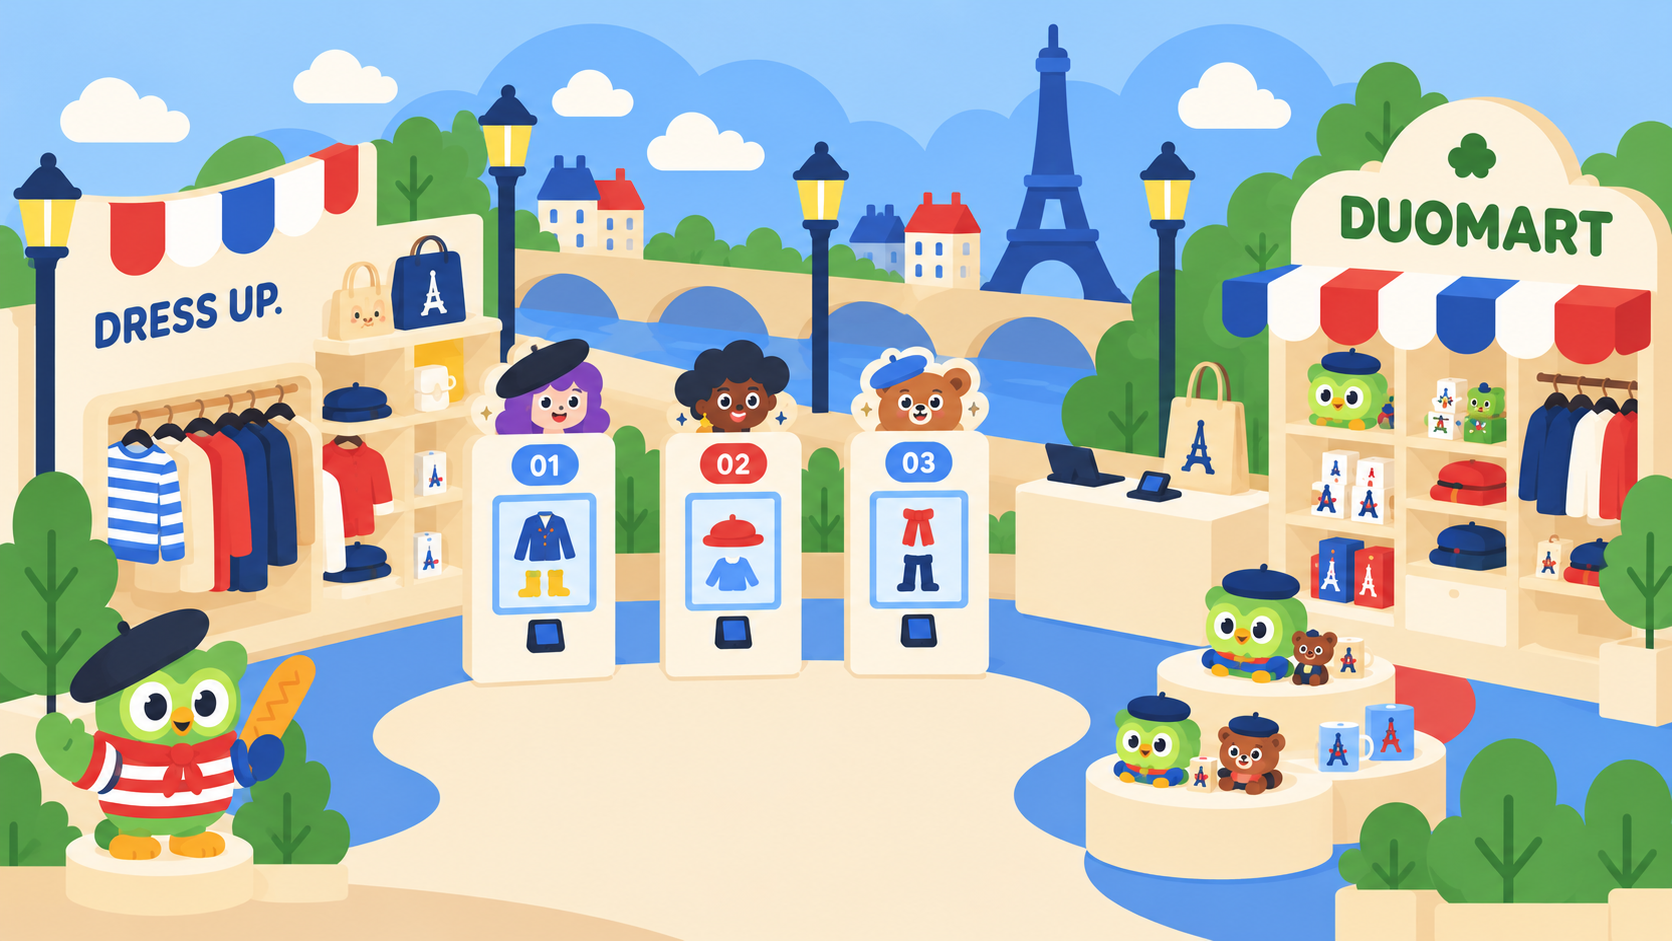
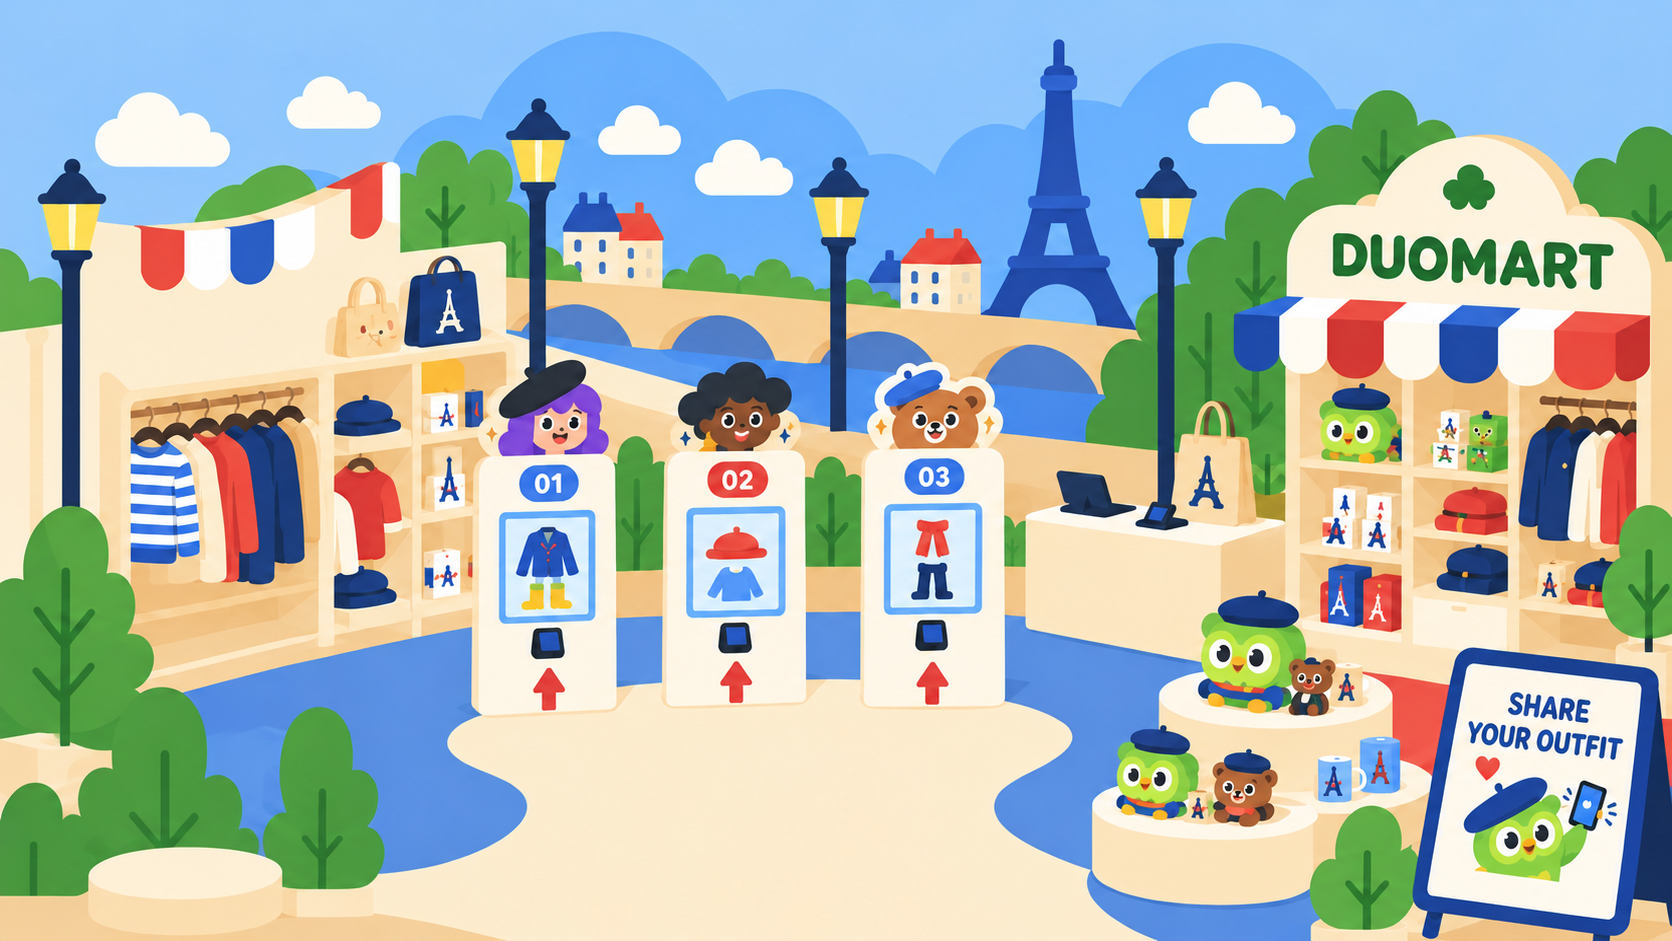
Refine framed Camille transformation and layered animated Paris scene

diff --git a/src/AdventureScene.jsx b/src/AdventureScene.jsx
@@ -1,29 +1,46 @@
 import { useId } from 'react'
 import { motion, useReducedMotion } from 'motion/react'
+import CamilleIdle from './CamilleIdle'
+import ForegroundDuo from './ForegroundDuo'
 import './AdventureScene.css'
 
-const regions = [
-  {name:'fashion-booth', points:'0,165 480,165 480,785 0,900',origin:'240px 800px',delay:.14},
-  {name:'kiosk-one', points:'480,355 680,355 680,765 480,765',origin:'580px 765px',delay:.3},
-  {name:'kiosk-two', points:'680,355 865,355 865,765 680,765',origin:'770px 765px',delay:.4},
-  {name:'kiosk-three', points:'865,355 1050,355 1050,765 865,765',origin:'950px 765px',delay:.5},
-  {name:'duomart', points:'1060,180 1600,180 1600,900 1050,765 1050,380',origin:'1320px 800px',delay:.25},
+// Painting order is independent of reveal timing: the ground can arrive last
+// while still sitting behind the kiosks, characters and displays.
+const layers = [
+  {name:'clouds',path:'M0 0H1600V900H0Z',delay:0,origin:'800px 180px'},
+  {name:'bridge',path:'M475 250 935 255 1090 300 1090 450 470 375Z M940 315 983 22 1018 22 1055 330Z',delay:.045,origin:'800px 370px'},
+  {name:'ground',path:'M0 595 460 580 620 615 965 595 1260 640 1600 655V900H0Z',delay:.65,origin:'800px 900px'},
+  {name:'left-cupboards',path:'M0 185 355 150 490 230 488 630 292 696 0 739Z',delay:.2,origin:'230px 690px'},
+  {name:'right-cupboards',path:'M1172 270 1215 151Q1415 73 1530 194L1595 260V681L1230 625Z',delay:.23,origin:'1400px 660px'},
+  {name:'cashier',path:'M975 445 1155 371 1233 450 1233 633 1110 675 975 597Z',delay:.28,origin:'1110px 655px'},
+  {name:'kiosk-one',path:'M448 409Q455 359 484 350L507 336Q583 350 592 409L608 431V688L447 688Z',delay:.33,origin:'529px 688px'},
+  {name:'kiosk-two',path:'M633 408Q625 369 650 350Q705 320 745 355L775 405V680L633 680Z',delay:.375,origin:'706px 680px'},
+  {name:'kiosk-three',path:'M820 403Q819 357 872 341Q933 333 951 400L964 422V678L820 678Z',delay:.42,origin:'895px 678px'},
+  {name:'lamp-left',path:'M32 199Q26 165 65 150Q91 155 100 192L92 240 82 246V580H55V246L44 241Z',delay:.09,origin:'68px 580px'},
+  {name:'lamp-middle-left',path:'M481 132Q475 109 512 91Q544 98 546 126L538 175 527 186V355H502V186L490 177Z',delay:.105,origin:'514px 355px'},
+  {name:'lamp-center',path:'M774 188Q768 159 802 150Q831 160 831 187L824 226 816 240V414H790V239L780 228Z',delay:.12,origin:'802px 414px'},
+  {name:'lamp-right',path:'M1087 187Q1080 161 1116 150Q1145 161 1144 188L1135 226 1128 239V487H1103V237L1094 230Z',delay:.135,origin:'1116px 487px'},
+  {name:'foreground-duo',path:'M37 620Q54 598 96 590L210 565Q257 596 246 664L309 631Q345 621 340 664L305 743 311 866 264 896 82 896 38 817Z',delay:.47,origin:'178px 870px'},
+  {name:'display-back',path:'M1099 639Q1110 575 1196 568Q1220 600 1270 633L1339 665 1329 752 1099 763Z',delay:.51,origin:'1220px 750px'},
+  {name:'display-front',path:'M1039 741Q1026 704 1055 685Q1136 689 1208 728L1328 701 1365 778 1340 868 1044 868Z',delay:.545,origin:'1200px 850px'},
+  {name:'share-sign',path:'M1385 620Q1390 605 1412 609L1578 625Q1595 630 1595 656L1595 900H1348L1329 848Z',delay:.58,origin:'1470px 890px'},
 ]
-export default function AdventureScene({ hideCharacter = false }) {
-  const reduced = useReducedMotion()
-  const id = useId().replaceAll(':','')
-  return <section className="adventure-scene" aria-label="Camille’s Paris fashion adventure">
-    <div className="adventure-stage">
-      <svg className="adventure-panorama" viewBox="0 0 1600 900" role="img" aria-label="Paris fashion pop-up with an Eiffel Tower, clothing booth, three learning kiosks and Duomart">
-        <defs>
-          <mask id={`${id}-scenery-mask`}><rect width="1600" height="900" fill="white"/>{regions.map(region=><polygon key={region.name} points={region.points} fill="black"/>)}</mask>
-          {regions.map(region=><clipPath key={region.name} id={`${id}-${region.name}`}><polygon points={region.points}/></clipPath>)}
-        </defs>
-        <motion.image href="/paris-adventure.png" width="1600" height="900" preserveAspectRatio="none" mask={`url(#${id}-scenery-mask)`} initial={{opacity:0}} animate={{opacity:1}} transition={{duration:reduced ? 0 : .35}}/>
-        {regions.map(region=><motion.g className="adventure-piece" data-part={region.name} key={region.name} style={{transformOrigin:region.origin}} initial={reduced ? false : {opacity:0,scale:.8,y:65}} animate={{opacity:1,scale:1,y:0}} transition={{delay:reduced ? 0 : region.delay,duration:reduced ? 0 : .6,type:'spring',bounce:.22}}><image href="/paris-adventure.png" width="1600" height="900" preserveAspectRatio="none" clipPath={`url(#${id}-${region.name})`}/></motion.g>)}
-        <motion.image href="/paris-adventure.png" width="1600" height="900" preserveAspectRatio="none" initial={{opacity:0}} animate={{opacity:1}} transition={{delay:reduced ? 0 : 1.1,duration:reduced ? 0 : .15}}/>
-      </svg>
-      <div className={`adventure-character ${hideCharacter ? 'character-in-flight' : ''}`}><div className="character-ground-shadow"/><motion.img src="/camille-cartoon.png" alt="Camille as a Duolingo-style character, wearing a white blouse and dark skirt" animate={reduced || hideCharacter ? {} : {y:[0,-3,0]}} transition={{duration:3.5,repeat:Infinity,ease:'easeInOut'}}/></div>
-    </div>
-  </section>
+const lamps=[{x:68,y:216},{x:514,y:154},{x:802,y:207},{x:1116,y:207}]
+
+export default function AdventureScene({hideCharacter=false}) {
+  const reduced=useReducedMotion()
+  const id=useId().replaceAll(':','')
+  return <section className="adventure-scene" aria-label="Camille’s Paris fashion adventure"><div className="adventure-stage">
+    <svg className="adventure-panorama" viewBox="0 0 1600 900" role="img" aria-label="Paris scene with clouds, bridge, lamps, fashion shelves, cashier, three kiosks, Duo displays and a share-your-outfit sign">
+      <defs>
+        {layers.map((layer,index)=><mask key={layer.name} id={`${id}-${layer.name}`} maskUnits="userSpaceOnUse" x="0" y="0" width="1600" height="900"><path d={layer.path} fill="white"/>{layers.slice(index+1).map(front=><path key={front.name} d={front.path} fill="black"/>)}</mask>)}
+        <radialGradient id={`${id}-lamp-light`}><stop offset="0" stopColor="#fff6b1" stopOpacity=".85"/><stop offset="1" stopColor="#fff6b1" stopOpacity="0"/></radialGradient>
+      </defs>
+      {layers.map(layer=><motion.g key={layer.name} className="adventure-piece" data-part={layer.name} data-delay={layer.delay} style={{transformOrigin:layer.origin}} initial={reduced?false:{opacity:0,y:layer.name==='ground'?24:35,scale:layer.name==='clouds'?.97:.92}} animate={{opacity:1,y:0,scale:1}} transition={{delay:reduced?0:layer.delay,duration:reduced?0:.3,type:'spring',bounce:.16}}><image href="/paris-adventure.png" width="1600" height="900" preserveAspectRatio="none" mask={`url(#${id}-${layer.name})`}/></motion.g>)}
+      <motion.g initial={{opacity:0}} animate={{opacity:1}} transition={{delay:reduced?0:1.02,duration:reduced?0:.1}}><image href="/paris-adventure.png" width="1600" height="900" preserveAspectRatio="none"/></motion.g>
+      <ForegroundDuo reduced={reduced}/>
+      {lamps.map((lamp,index)=><motion.ellipse key={index} className="lamp-glow" cx={lamp.x} cy={lamp.y} rx="39" ry="49" fill={`url(#${id}-lamp-light)`} initial={{opacity:0}} animate={reduced?{opacity:.24}:{opacity:[.18,.18,.5,.22,.4,.18]}} transition={reduced?{duration:0}:{delay:1.2+index*.17,duration:5.5+index*.3,repeat:Infinity,ease:'easeInOut'}}/>)}
+    </svg>
+    <div className={`adventure-character ${hideCharacter?'character-in-flight':''}`}><div className="character-ground-shadow"/><CamilleIdle active={!hideCharacter}/></div>
+  </div></section>
 }

diff --git a/src/CamilleTransformation.jsx b/src/CamilleTransformation.jsx
@@ -9,29 +9,44 @@ export default function CamilleTransformation({origin,onReveal,onComplete}) {
     let cancelled=false
     const controls=[]
     const move=async(target,values,options)=>{if(cancelled)return;const control=animate(target,values,options);controls.push(control);await control}
+    const phase=name=>{if(!cancelled)scope.current.dataset.phase=name}
     const run=async()=>{
+      // A single camera flash hides the photographic-to-cartoon swap.
       await Promise.all([
-        move('.transform-flash',{opacity:[0,.85,0],scale:[.5,1.15]},{duration:.38,ease:'easeOut'}),
-        move('.transform-photo',{opacity:0},{delay:.1,duration:.16}),
-        move('.transform-cartoon',{opacity:1},{delay:.14,duration:.16}),
+        move('.transform-flash',{opacity:[0,.88,0],scale:[.7,1.12]},{duration:.34,ease:'easeOut'}),
+        move('.transform-photo',{opacity:0},{delay:.1,duration:.12}),
+        move('.transform-face-neutral',{opacity:1},{delay:.12,duration:.12}),
       ])
       if(cancelled)return
-      scope.current.dataset.phase='jump'
-      await move('.camille-transform-actor',{y:-85,scale:1.2,rotate:5},{duration:.25,ease:'easeOut'})
+      phase('portrait')
+      await move('.transform-frame',{scale:[1,1.015,1]},{duration:.25,ease:'easeInOut'})
+      if(cancelled)return
+      phase('expression')
+      await Promise.all([
+        move('.transform-face-neutral',{opacity:0},{duration:.12}),
+        move('.transform-face-wink',{opacity:1},{duration:.12}),
+      ])
+      await move('.transform-frame',{rotate:[0,2,0]},{duration:.28,ease:'easeInOut'})
+      if(cancelled)return
+      phase('jump')
+      await Promise.all([
+        move('.transform-frame',{opacity:0},{duration:.12}),
+        move('.transform-fullbody',{opacity:1},{duration:.12}),
+        move('.camille-transform-actor',{y:-85,height:origin.height*1.2,scale:1.08,rotate:5},{duration:.25,ease:'easeOut'}),
+      ])
       if(cancelled)return
       callbacks.current.onReveal()
-      await move('.camille-transform-actor',{y:-110,rotate:0},{duration:.4,ease:'easeInOut'})
-      if(cancelled)return
+      await move('.camille-transform-actor',{y:-110,rotate:0},{duration:.38,ease:'easeInOut'})
       let destination=document.querySelector('.adventure-character')
-      while(!destination && !cancelled){await new Promise(requestAnimationFrame);destination=document.querySelector('.adventure-character')}
+      while(!destination&&!cancelled){await new Promise(requestAnimationFrame);destination=document.querySelector('.adventure-character')}
       if(cancelled)return
       const stage=destination.getBoundingClientRect()
-      scope.current.dataset.phase='land'
-      await move('.camille-transform-actor',{x:stage.left-origin.left,y:stage.top-origin.top,width:stage.width,height:stage.height,scale:1,rotate:0},{duration:.65,ease:[.32,0,.22,1]})
+      phase('land')
+      await move('.camille-transform-actor',{x:stage.left-origin.left,y:stage.top-origin.top,width:stage.width,height:stage.height,scale:1,rotate:0},{duration:.48,ease:[.32,0,.22,1]})
       if(!cancelled)callbacks.current.onComplete()
     }
     run()
     return()=>{cancelled=true;controls.forEach(control=>control.stop())}
   },[animate,origin,scope])
-  return <div ref={scope} className="camille-transform" data-phase="flash" aria-hidden="true"><div className="camille-transform-actor" style={{left:origin.left,top:origin.top,width:origin.width,height:origin.height}}><img className="transform-photo" src="/camille-portrait.png" alt=""/><img className="transform-cartoon" src="/camille-cartoon.png" alt=""/><div className="transform-flash"/></div></div>
+  return <div ref={scope} className="camille-transform" data-phase="flash" aria-hidden="true"><div className="camille-transform-actor" style={{left:origin.left,top:origin.top,width:origin.width,height:origin.height}}><div className="transform-frame"><img className="transform-photo" src="/camille-portrait.png" alt=""/><img className="transform-face-neutral" src="/camille-cartoon-portrait.png" alt=""/><img className="transform-face-wink" src="/camille-cartoon-portrait-wink.png" alt=""/><div className="transform-flash"/></div><img className="transform-fullbody" src="/camille-idle-wink.png" alt=""/></div></div>
 }

diff --git a/src/AdventureScene.css b/src/AdventureScene.css
@@ -1,1 +1,2 @@
 .profile-page.adventure-page{background:#a9d8ff}.adventure-page .masthead,.adventure-page footer{color:#285e9b}.adventure-page .wordmark{color:#47853d}.adventure-page .fullscreen-button,.adventure-page .back-button{color:#285e9b;border-color:#285e9b50}.adventure-page footer{border-color:#285e9b30}.adventure-page .replay-button,.adventure-page .page-number,.adventure-page .page-number span{color:#285e9b}.adventure-page .replay-button>span{border-color:#285e9b50}.adventure-scene{min-height:calc(100svh - 147px);display:flex;justify-content:center;align-items:center}.adventure-stage{position:relative;aspect-ratio:16/9;width:min(100%,calc((100svh - 170px)*16/9));isolation:isolate;border-radius:24px;box-shadow:0 10px 0 #5c95cd30;overflow:hidden}.adventure-panorama{display:block;width:100%;height:100%}.adventure-character{position:absolute;left:41%;bottom:6%;width:17%;height:49%;z-index:3}.adventure-character img{width:100%;height:100%;object-fit:contain;object-position:50% 100%;position:relative;filter:drop-shadow(0 2px 0 #39577915)}.character-ground-shadow{position:absolute;width:70%;height:4%;bottom:1%;left:15%;border-radius:50%;background:#355a8440;filter:blur(3px)}.character-in-flight{visibility:hidden}.camille-transform{position:fixed;inset:0;z-index:35;pointer-events:none;overflow:hidden}.camille-transform-actor{position:absolute;transform-origin:50% 75%;will-change:transform}.transform-photo,.transform-cartoon{position:absolute;inset:0;width:100%;height:100%;object-fit:contain}.transform-photo{object-fit:cover;border:10px solid white;border-radius:22px}.transform-flash{position:absolute;inset:-40%;background:radial-gradient(ellipse,rgba(255,255,255,.94) 0%,rgba(255,255,255,.4) 35%,transparent 65%);opacity:0;pointer-events:none}.transform-cartoon{opacity:0}.transformation-active .portrait-frame img{visibility:hidden}.transformation-active .portrait-frame .photo-caption{opacity:0}.profile-page.is-transitioning .profile-scene{cursor:wait}.spark-transform{position:absolute;width:22px;height:22px;background:white;clip-path:polygon(50% 0,60% 40%,100% 50%,60% 60%,50% 100%,40% 60%,0 50%,40% 40%);opacity:0}@media(max-width:750px){.adventure-stage{width:100%;border-radius:14px}.adventure-scene{min-height:calc(100svh - 145px)}.adventure-page .chapter-label{display:none}.adventure-page footer{margin-top:0}}
+.transform-frame{position:absolute;inset:0;border-radius:18px;overflow:hidden;background:#fff7e8}.transform-frame img{position:absolute;inset:0;width:100%;height:100%;object-fit:cover;border:0;border-radius:0}.transform-face-neutral,.transform-face-wink,.transform-fullbody{opacity:0}.transform-fullbody{position:absolute;inset:0;width:100%;height:100%;object-fit:contain}.transformation-active .portrait-frame .photo-caption{opacity:1}.camille-idle{position:absolute;inset:0;transform-origin:50% 100%}.camille-idle img{position:absolute;inset:0;width:100%;height:100%;object-fit:contain;object-position:50% 100%}.lamp-glow{mix-blend-mode:screen;pointer-events:none}.left-duo-wave{transform-box:view-box;transform-origin:118px 725px}.adventure-piece{will-change:transform,opacity}

diff --git a/src/CamilleIdle.jsx b/src/CamilleIdle.jsx
@@ -1,0 +1,22 @@
+import { useEffect, useState } from 'react'
+import { motion, useReducedMotion } from 'motion/react'
+
+const poses = [
+  {name:'neutral',src:'/camille-cartoon.png'},
+  {name:'wink',src:'/camille-idle-wink.png'},
+  {name:'relaxed',src:'/camille-idle-relaxed.png'},
+]
+const routine = [{pose:1,duration:850},{pose:0,duration:3100},{pose:2,duration:2600},{pose:0,duration:1900}]
+export default function CamilleIdle({active=true}) {
+  const reduced=useReducedMotion()
+  const [pose,setPose]=useState(reduced?0:1)
+  useEffect(()=>{
+    if(!active || reduced)return
+    let timer
+    let step=0
+    const next=()=>{setPose(routine[step].pose);timer=setTimeout(()=>{step=(step+1)%routine.length;next()},routine[step].duration)}
+    next()
+    return()=>clearTimeout(timer)
+  },[active,reduced])
+  return <motion.div className="camille-idle" data-pose={poses[pose].name} role="img" aria-label="Camille smiles, waves and changes expression like an idle game character" animate={active&&!reduced ? {y:[0,-2,0],rotate:[-.4,.4,-.4]} : {y:0,rotate:0}} transition={{duration:3.5,repeat:Infinity,ease:'easeInOut'}}>{poses.map((item,index)=><img key={item.name} src={item.src} alt="" aria-hidden="true" style={{display:pose===index ? 'block' : 'none'}}/>)}</motion.div>
+}

diff --git a/src/ForegroundDuo.jsx b/src/ForegroundDuo.jsx
@@ -1,0 +1,11 @@
+import { useId } from 'react'
+import { motion } from 'motion/react'
+
+export default function ForegroundDuo({reduced}) {
+  const id=useId().replaceAll(':','')
+  return <motion.svg className="foreground-duo-rig" x="30" y="570" width="325" height="280" viewBox="180 100 860 850" overflow="visible" initial={reduced?false:{opacity:0,y:25,scale:.92}} animate={{opacity:1,y:0,scale:1}} style={{transformOrigin:'180px 855px'}} transition={{delay:reduced?0:.47,duration:reduced?0:.3}}>
+    <defs><clipPath id={`${id}-body`}><rect x="300" y="0" width="724" height="1024"/></clipPath><clipPath id={`${id}-arm`}><rect x="0" y="390" width="280" height="345"/></clipPath></defs>
+    <motion.g className="left-duo-wave" style={{transformOrigin:'384px 688px'}} animate={reduced?{rotate:0}:{rotate:[0,0,12,-5,12,0,0]}} transition={{delay:1.1,duration:4.6,repeat:reduced?0:Infinity,times:[0,.45,.55,.65,.75,.83,1],ease:'easeInOut'}}><g transform="translate(128 5)"><image href="/foreground-duo-rig.png" width="1024" height="1024" clipPath={`url(#${id}-arm)`}/></g></motion.g>
+    <image href="/foreground-duo-rig.png" width="1024" height="1024" clipPath={`url(#${id}-body)`}/>
+  </motion.svg>
+}

diff --git a/index.html b/index.html
@@ -6,6 +6,11 @@
     <link rel="preload" as="image" href="/french-duo-side.png" />
     <link rel="preload" as="image" href="/camille-cartoon.png" />
     <link rel="preload" as="image" href="/paris-adventure.png" />
+    <link rel="preload" as="image" href="/camille-cartoon-portrait.png" />
+    <link rel="preload" as="image" href="/camille-cartoon-portrait-wink.png" />
+    <link rel="preload" as="image" href="/camille-idle-wink.png" />
+    <link rel="preload" as="image" href="/camille-idle-relaxed.png" />
+    <link rel="preload" as="image" href="/foreground-duo-rig.png" />
     <meta name="viewport" content="width=device-width, initial-scale=1.0" />
     <title>Meet Camille — A Duolingo Story</title>
   </head>

diff --git a/README.md b/README.md
@@ -6,7 +6,7 @@ The opening slide displays a placeholder TEXT title and text text subtitles. A l
 
 Camille’s redesigned profile uses a generated smiling head-and-shoulders portrait, oversized rounded typography, and a bright Duolingo green background. Fashion and Paris illustrations, the words ‘outfits’ and ‘paris’, and an age badge enter with a spring animation and float gently. Reduced-motion preferences disable floating. Use the replay button to repeat the entrance or the fullscreen button to present.
 
-The third slide transforms Camille through a soft flash, pops the cartoon character out of her portrait, then assembles the Paris fashion setting in staggered regions. Camille lands in the foreground. Click the profile or use Enter/Space/ArrowRight to enter her world; the previous-slide button or ArrowLeft moves back one slide. Reduced-motion settings skip the transformation.
+The third slide uses a single camera flash to change the photographic portrait into a cartoon head-and-shoulders portrait inside the same frame. Camille winks before jumping out and landing in the Paris scene. Seventeen masked regions reveal quickly in depth order: clouds and bridge, lamps, cupboards and cashier, three kiosks, foreground Duo and displays and sign, then the ground. Camille cycles through a wave/wink, neutral smile and relaxed pose; lamps glow gently and the separate foreground Duo arm waves. Click the profile or use Enter/Space/ArrowRight to enter her world; Previous slide or ArrowLeft moves back one slide. Reduced-motion settings skip the transformation and looping animations.
 
 ## Development
 
